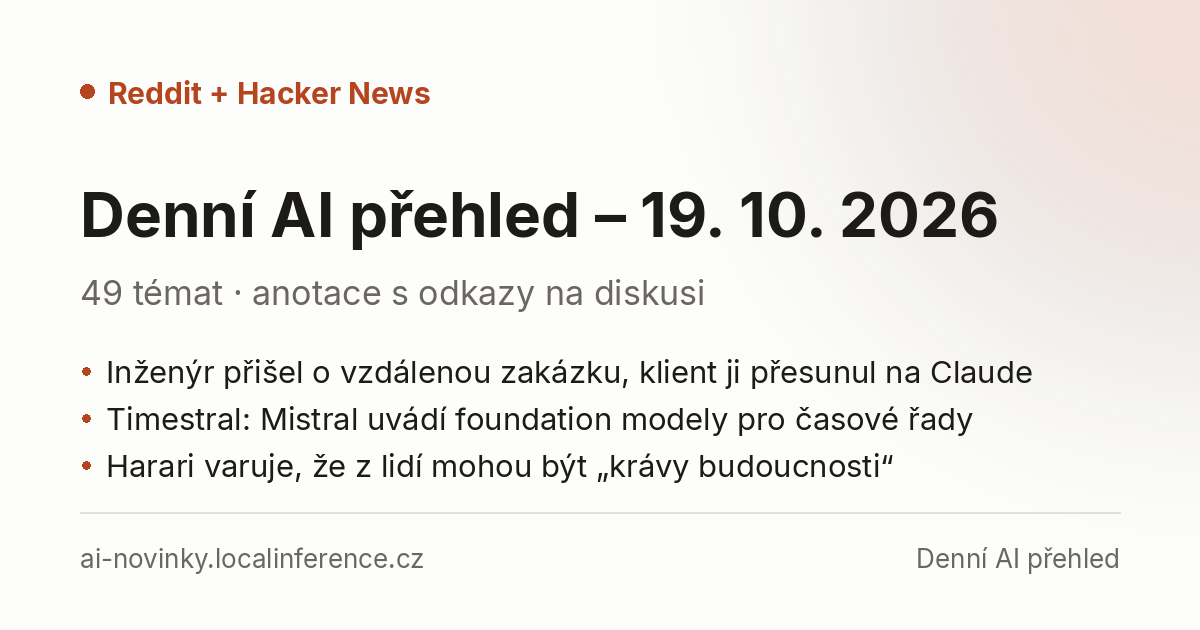
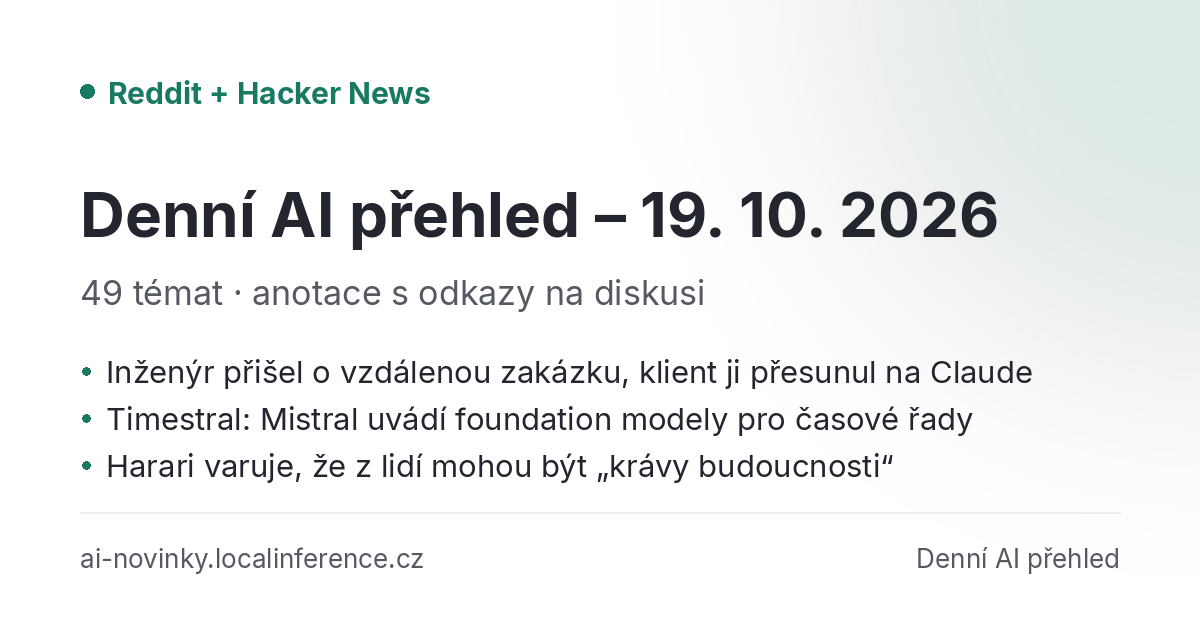
web: 2026-11-16

Changed region(s): [[0.0617, 0.1206, 0.37, 0.181]]

diff --git a/docs/index.html b/docs/index.html
@@ -10,7 +10,7 @@
 <meta property="og:description" content="Denní souhrny AI novinek z Redditu a Hacker News v češtině.">
 <meta property="og:url" content="https://ai-novinky.localinference.cz/">
 <meta property="og:site_name" content="Denní AI přehled">
-<link rel="stylesheet" href="style.css?v=de3fea7b">
+<link rel="stylesheet" href="style.css?v=1d825512">
 <link rel="alternate" type="application/rss+xml" title="Denní AI přehled" href="feed.xml">
 <meta property="og:image" content="https://ai-novinky.localinference.cz/og.png">
 <meta property="og:image:width" content="1200">
@@ -24,7 +24,7 @@
 <body>
 <header class="site"><a class="brand" href="index.html">AI novinky</a><span class="sep">·</span><a href="feed.xml">RSS</a><a class="parent" href="https://www.localinference.cz">LOCALinference.cz ↗</a></header>
 <main>
-<h1>Denní AI přehled</h1><p class="lead">Denní souhrny AI novinek z Redditu a Hacker News v češtině.</p><div class="months"><section class="month"><h2>Listopad 2026<span class="mcount">14 dní</span></h2><div class="days"><a class="day" href="2026-11-14.html"><span class="dnum">14.</span><span class="dmeta">so · 36 novinek</span></a><a class="day" href="2026-11-13.html"><span class="dnum">13.</span><span class="dmeta">pá · 32 novinek</span></a><a class="day" href="2026-11-12.html"><span class="dnum">12.</span><span class="dmeta">čt · 29 novinek</span></a><a class="day" href="2026-11-11.html"><span class="dnum">11.</span><span class="dmeta">st · 30 novinek</span></a><a class="day" href="2026-11-10.html"><span class="dnum">10.</span><span class="dmeta">út · 34 novinek</span></a><a class="day" href="2026-11-09.html"><span class="dnum">9.</span><span class="dmeta">po · 36 novinek</span></a><a class="day" href="2026-11-08.html"><span class="dnum">8.</span><span class="dmeta">ne · 35 novinek</span></a><a class="day" href="2026-11-07.html"><span class="dnum">7.</span><span class="dmeta">so · 40 novinek</span></a><a class="day" href="2026-11-06.html"><span class="dnum">6.</span><span class="dmeta">pá · 42 novinek</span></a><a class="day" href="2026-11-05.html"><span class="dnum">5.</span><span class="dmeta">čt · 32 novinek</span></a><a class="day" href="2026-11-04.html"><span class="dnum">4.</span><span class="dmeta">st · 32 novinek</span></a><a class="day" href="2026-11-03.html"><span class="dnum">3.</span><span class="dmeta">út · 27 novinek</span></a><a class="day" href="2026-11-02.html"><span class="dnum">2.</span><span class="dmeta">po · 29 novinek</span></a><a class="day" href="2026-11-01.html"><span class="dnum">1.</span><span class="dmeta">ne · 29 novinek</span></a></div></section><section class="month"><h2>Říjen 2026<span class="mcount">13 dní</span></h2><div class="days"><a class="day" href="2026-10-31.html"><span class="dnum">31.</span><span class="dmeta">so · 36 novinek</span></a><a class="day" href="2026-10-30.html"><span class="dnum">30.</span><span class="dmeta">pá · 29 novinek</span></a><a class="day" href="2026-10-29.html"><span class="dnum">29.</span><span class="dmeta">čt · 38 novinek</span></a><a class="day" href="2026-10-28.html"><span class="dnum">28.</span><span class="dmeta">st · 28 novinek</span></a><a class="day" href="2026-10-27.html"><span class="dnum">27.</span><span class="dmeta">út · 38 novinek</span></a><a class="day" href="2026-10-26.html"><span class="dnum">26.</span><span class="dmeta">po · 41 novinek</span></a><a class="day" href="2026-10-25.html"><span class="dnum">25.</span><span class="dmeta">ne · 45 novinek</span></a><a class="day" href="2026-10-24.html"><span class="dnum">24.</span><span class="dmeta">so · 48 novinek</span></a><a class="day" href="2026-10-23.html"><span class="dnum">23.</span><span class="dmeta">pá · 44 novinek</span></a><a class="day" href="2026-10-22.html"><span class="dnum">22.</span><span class="dmeta">čt · 44 novinek</span></a><a class="day" href="2026-10-21.html"><span class="dnum">21.</span><span class="dmeta">st · 48 novinek</span></a><a class="day" href="2026-10-20.html"><span class="dnum">20.</span><span class="dmeta">út · 43 novinek</span></a><a class="day" href="2026-10-19.html"><span class="dnum">19.</span><span class="dmeta">po · 49 novinek</span></a></div></section></div>
+<h1>Denní AI přehled</h1><p class="lead">Denní souhrny AI novinek z Redditu a Hacker News v češtině.</p><div class="months"><section class="month"><h2>Listopad 2026<span class="mcount">14 dní</span></h2><div class="days"><a class="day" href="2026-11-14.html"><span class="dnum">14. 11.</span><span class="dmeta">so · 36 novinek</span></a><a class="day" href="2026-11-13.html"><span class="dnum">13. 11.</span><span class="dmeta">pá · 32 novinek</span></a><a class="day" href="2026-11-12.html"><span class="dnum">12. 11.</span><span class="dmeta">čt · 29 novinek</span></a><a class="day" href="2026-11-11.html"><span class="dnum">11. 11.</span><span class="dmeta">st · 30 novinek</span></a><a class="day" href="2026-11-10.html"><span class="dnum">10. 11.</span><span class="dmeta">út · 34 novinek</span></a><a class="day" href="2026-11-09.html"><span class="dnum">9. 11.</span><span class="dmeta">po · 36 novinek</span></a><a class="day" href="2026-11-08.html"><span class="dnum">8. 11.</span><span class="dmeta">ne · 35 novinek</span></a><a class="day" href="2026-11-07.html"><span class="dnum">7. 11.</span><span class="dmeta">so · 40 novinek</span></a><a class="day" href="2026-11-06.html"><span class="dnum">6. 11.</span><span class="dmeta">pá · 42 novinek</span></a><a class="day" href="2026-11-05.html"><span class="dnum">5. 11.</span><span class="dmeta">čt · 32 novinek</span></a><a class="day" href="2026-11-04.html"><span class="dnum">4. 11.</span><span class="dmeta">st · 32 novinek</span></a><a class="day" href="2026-11-03.html"><span class="dnum">3. 11.</span><span class="dmeta">út · 27 novinek</span></a><a class="day" href="2026-11-02.html"><span class="dnum">2. 11.</span><span class="dmeta">po · 29 novinek</span></a><a class="day" href="2026-11-01.html"><span class="dnum">1. 11.</span><span class="dmeta">ne · 29 novinek</span></a></div></section><section class="month"><h2>Říjen 2026<span class="mcount">13 dní</span></h2><div class="days"><a class="day" href="2026-10-31.html"><span class="dnum">31. 10.</span><span class="dmeta">so · 36 novinek</span></a><a class="day" href="2026-10-30.html"><span class="dnum">30. 10.</span><span class="dmeta">pá · 29 novinek</span></a><a class="day" href="2026-10-29.html"><span class="dnum">29. 10.</span><span class="dmeta">čt · 38 novinek</span></a><a class="day" href="2026-10-28.html"><span class="dnum">28. 10.</span><span class="dmeta">st · 28 novinek</span></a><a class="day" href="2026-10-27.html"><span class="dnum">27. 10.</span><span class="dmeta">út · 38 novinek</span></a><a class="day" href="2026-10-26.html"><span class="dnum">26. 10.</span><span class="dmeta">po · 41 novinek</span></a><a class="day" href="2026-10-25.html"><span class="dnum">25. 10.</span><span class="dmeta">ne · 45 novinek</span></a><a class="day" href="2026-10-24.html"><span class="dnum">24. 10.</span><span class="dmeta">so · 48 novinek</span></a><a class="day" href="2026-10-23.html"><span class="dnum">23. 10.</span><span class="dmeta">pá · 44 novinek</span></a><a class="day" href="2026-10-22.html"><span class="dnum">22. 10.</span><span class="dmeta">čt · 44 novinek</span></a><a class="day" href="2026-10-21.html"><span class="dnum">21. 10.</span><span class="dmeta">st · 48 novinek</span></a><a class="day" href="2026-10-20.html"><span class="dnum">20. 10.</span><span class="dmeta">út · 43 novinek</span></a><a class="day" href="2026-10-19.html"><span class="dnum">19. 10.</span><span class="dmeta">po · 49 novinek</span></a></div></section></div>
 </main>
 <footer class="site">27 dní · <a href="feed.xml">RSS</a></footer>
 </body>

diff --git a/docs/style.css b/docs/style.css
@@ -1,19 +1,20 @@
 :root {
-  --bg: #fdfdfc;
-  --fg: #1c1b19;
-  --muted: #6b6760;
-  --line: #e3e0d9;
-  --accent: #b4451f;
-  --card: #f6f4ef;
+  /* barvy z www.localinference.cz (Starlight: zelený akcent, neutrální šedé) */
+  --bg: #ffffff;
+  --fg: #23262f;
+  --muted: #555962;
+  --line: #edeef3;
+  --accent: #187a63;
+  --card: #f6f7f9;
 }
 @media (prefers-color-scheme: dark) {
   :root {
-    --bg: #16151a;
-    --fg: #e8e6e1;
-    --muted: #9b968c;
-    --line: #2e2c33;
-    --accent: #ff9166;
-    --card: #1e1d23;
+    --bg: #17181c;
+    --fg: #edeef3;
+    --muted: #888c96;
+    --line: #353841;
+    --accent: #35b48f;
+    --card: #23262f;
   }
 }
 * { box-sizing: border-box; }
@@ -97,11 +98,12 @@ footer.site { border-top: 1px solid var(--line); margin-top: 1rem; }
 }
 .day:hover { border-color: var(--accent); }
 .day .dnum {
-  font-size: 1.5rem;
+  font-size: 1.25rem;
   font-weight: 650;
-  line-height: 1.05;
+  line-height: 1.15;
   font-variant-numeric: tabular-nums;
   letter-spacing: -.01em;
+  white-space: nowrap;
 }
 .day:hover .dnum { color: var(--accent); }
 .day .dmeta { font-size: .78rem; line-height: 1.3; color: var(--muted); }

diff --git a/docs/2026-10-19.html b/docs/2026-10-19.html
@@ -10,7 +10,7 @@
 <meta property="og:description" content="Denní souhrn: 26 článků z Redditu a 23 z Hacker News, po sloučení 49 témat. Nejlepších 25 témat je v plném znění, zbytek tvoří anotace s odkazy na původní diskuse.">
 <meta property="og:url" content="https://ai-novinky.localinference.cz/2026-10-19.html">
 <meta property="og:site_name" content="Denní AI přehled">
-<link rel="stylesheet" href="style.css?v=de3fea7b">
+<link rel="stylesheet" href="style.css?v=1d825512">
 <link rel="alternate" type="application/rss+xml" title="Denní AI přehled" href="feed.xml">
 <meta property="og:image" content="https://ai-novinky.localinference.cz/og/2026-10-19.png">
 <meta property="og:image:width" content="1200">

diff --git a/docs/2026-10-20.html b/docs/2026-10-20.html
@@ -10,7 +10,7 @@
 <meta property="og:description" content="Denní souhrn: 26 článků z Redditu a 18 z Hacker News, po sloučení 43 témat. Nejlepších 25 témat je v plném znění, zbytek tvoří anotace s odkazy na původní diskuse.">
 <meta property="og:url" content="https://ai-novinky.localinference.cz/2026-10-20.html">
 <meta property="og:site_name" content="Denní AI přehled">
-<link rel="stylesheet" href="style.css?v=de3fea7b">
+<link rel="stylesheet" href="style.css?v=1d825512">
 <link rel="alternate" type="application/rss+xml" title="Denní AI přehled" href="feed.xml">
 <meta property="og:image" content="https://ai-novinky.localinference.cz/og/2026-10-20.png">
 <meta property="og:image:width" content="1200">

diff --git a/docs/2026-10-21.html b/docs/2026-10-21.html
@@ -10,7 +10,7 @@
 <meta property="og:description" content="Denní souhrn: 25 článků z Redditu a 24 z Hacker News, po sloučení 48 témat. Nejlepších 25 témat je v plném znění, zbytek tvoří anotace s odkazy na původní diskuse.">
 <meta property="og:url" content="https://ai-novinky.localinference.cz/2026-10-21.html">
 <meta property="og:site_name" content="Denní AI přehled">
-<link rel="stylesheet" href="style.css?v=de3fea7b">
+<link rel="stylesheet" href="style.css?v=1d825512">
 <link rel="alternate" type="application/rss+xml" title="Denní AI přehled" href="feed.xml">
 <meta property="og:image" content="https://ai-novinky.localinference.cz/og/2026-10-21.png">
 <meta property="og:image:width" content="1200">

diff --git a/docs/2026-10-22.html b/docs/2026-10-22.html
@@ -10,7 +10,7 @@
 <meta property="og:description" content="Denní souhrn: 25 článků z Redditu a 20 z Hacker News, po sloučení 44 témat. Nejlepších 25 témat je v plném znění, zbytek tvoří anotace s odkazy na původní diskuse.">
 <meta property="og:url" content="https://ai-novinky.localinference.cz/2026-10-22.html">
 <meta property="og:site_name" content="Denní AI přehled">
-<link rel="stylesheet" href="style.css?v=de3fea7b">
+<link rel="stylesheet" href="style.css?v=1d825512">
 <link rel="alternate" type="application/rss+xml" title="Denní AI přehled" href="feed.xml">
 <meta property="og:image" content="https://ai-novinky.localinference.cz/og/2026-10-22.png">
 <meta property="og:image:width" content="1200">

diff --git a/docs/2026-10-23.html b/docs/2026-10-23.html
@@ -10,7 +10,7 @@
 <meta property="og:description" content="Denní souhrn: 23 článků z Redditu a 21 z Hacker News, po sloučení 44 témat. Nejlepších 25 témat je v plném znění, zbytek tvoří anotace s odkazy na původní diskuse.">
 <meta property="og:url" content="https://ai-novinky.localinference.cz/2026-10-23.html">
 <meta property="og:site_name" content="Denní AI přehled">
-<link rel="stylesheet" href="style.css?v=de3fea7b">
+<link rel="stylesheet" href="style.css?v=1d825512">
 <link rel="alternate" type="application/rss+xml" title="Denní AI přehled" href="feed.xml">
 <meta property="og:image" content="https://ai-novinky.localinference.cz/og/2026-10-23.png">
 <meta property="og:image:width" content="1200">

diff --git a/docs/2026-10-24.html b/docs/2026-10-24.html
@@ -10,7 +10,7 @@
 <meta property="og:description" content="Denní souhrn: 26 článků z Redditu a 22 z Hacker News, po sloučení 48 témat. Nejlepších 25 témat je v plném znění, zbytek tvoří anotace s odkazy na původní diskuse.">
 <meta property="og:url" content="https://ai-novinky.localinference.cz/2026-10-24.html">
 <meta property="og:site_name" content="Denní AI přehled">
-<link rel="stylesheet" href="style.css?v=de3fea7b">
+<link rel="stylesheet" href="style.css?v=1d825512">
 <link rel="alternate" type="application/rss+xml" title="Denní AI přehled" href="feed.xml">
 <meta property="og:image" content="https://ai-novinky.localinference.cz/og/2026-10-24.png">
 <meta property="og:image:width" content="1200">

diff --git a/docs/2026-10-25.html b/docs/2026-10-25.html
@@ -10,7 +10,7 @@
 <meta property="og:description" content="Denní souhrn: 26 článků z Redditu a 19 z Hacker News, po sloučení 45 témat. Nejlepších 25 témat je v plném znění, zbytek tvoří anotace s odkazy na původní diskuse.">
 <meta property="og:url" content="https://ai-novinky.localinference.cz/2026-10-25.html">
 <meta property="og:site_name" content="Denní AI přehled">
-<link rel="stylesheet" href="style.css?v=de3fea7b">
+<link rel="stylesheet" href="style.css?v=1d825512">
 <link rel="alternate" type="application/rss+xml" title="Denní AI přehled" href="feed.xml">
 <meta property="og:image" content="https://ai-novinky.localinference.cz/og/2026-10-25.png">
 <meta property="og:image:width" content="1200">

diff --git a/docs/2026-10-26.html b/docs/2026-10-26.html
@@ -10,7 +10,7 @@
 <meta property="og:description" content="Denní souhrn: 23 článků z Redditu a 21 z Hacker News, po sloučení 41 témat. Nejlepších 25 témat je v plném znění, zbytek tvoří anotace s odkazy na původní diskuse.">
 <meta property="og:url" content="https://ai-novinky.localinference.cz/2026-10-26.html">
 <meta property="og:site_name" content="Denní AI přehled">
-<link rel="stylesheet" href="style.css?v=de3fea7b">
+<link rel="stylesheet" href="style.css?v=1d825512">
 <link rel="alternate" type="application/rss+xml" title="Denní AI přehled" href="feed.xml">
 <meta property="og:image" content="https://ai-novinky.localinference.cz/og/2026-10-26.png">
 <meta property="og:image:width" content="1200">

diff --git a/docs/2026-10-27.html b/docs/2026-10-27.html
@@ -10,7 +10,7 @@
 <meta property="og:description" content="Denní souhrn: 19 článků z Redditu a 22 z Hacker News, po sloučení 38 témat. Nejlepších 25 témat je v plném znění, zbytek tvoří anotace s odkazy na původní diskuse.">
 <meta property="og:url" content="https://ai-novinky.localinference.cz/2026-10-27.html">
 <meta property="og:site_name" content="Denní AI přehled">
-<link rel="stylesheet" href="style.css?v=de3fea7b">
+<link rel="stylesheet" href="style.css?v=1d825512">
 <link rel="alternate" type="application/rss+xml" title="Denní AI přehled" href="feed.xml">
 <meta property="og:image" content="https://ai-novinky.localinference.cz/og/2026-10-27.png">
 <meta property="og:image:width" content="1200">

diff --git a/docs/2026-10-28.html b/docs/2026-10-28.html
@@ -10,7 +10,7 @@
 <meta property="og:description" content="Denní souhrn: 17 článků z Redditu a 13 z Hacker News, po sloučení 28 témat. Nejlepších 25 témat je v plném znění, zbytek tvoří anotace s odkazy na původní diskuse.">
 <meta property="og:url" content="https://ai-novinky.localinference.cz/2026-10-28.html">
 <meta property="og:site_name" content="Denní AI přehled">
-<link rel="stylesheet" href="style.css?v=de3fea7b">
+<link rel="stylesheet" href="style.css?v=1d825512">
 <link rel="alternate" type="application/rss+xml" title="Denní AI přehled" href="feed.xml">
 <meta property="og:image" content="https://ai-novinky.localinference.cz/og/2026-10-28.png">
 <meta property="og:image:width" content="1200">
